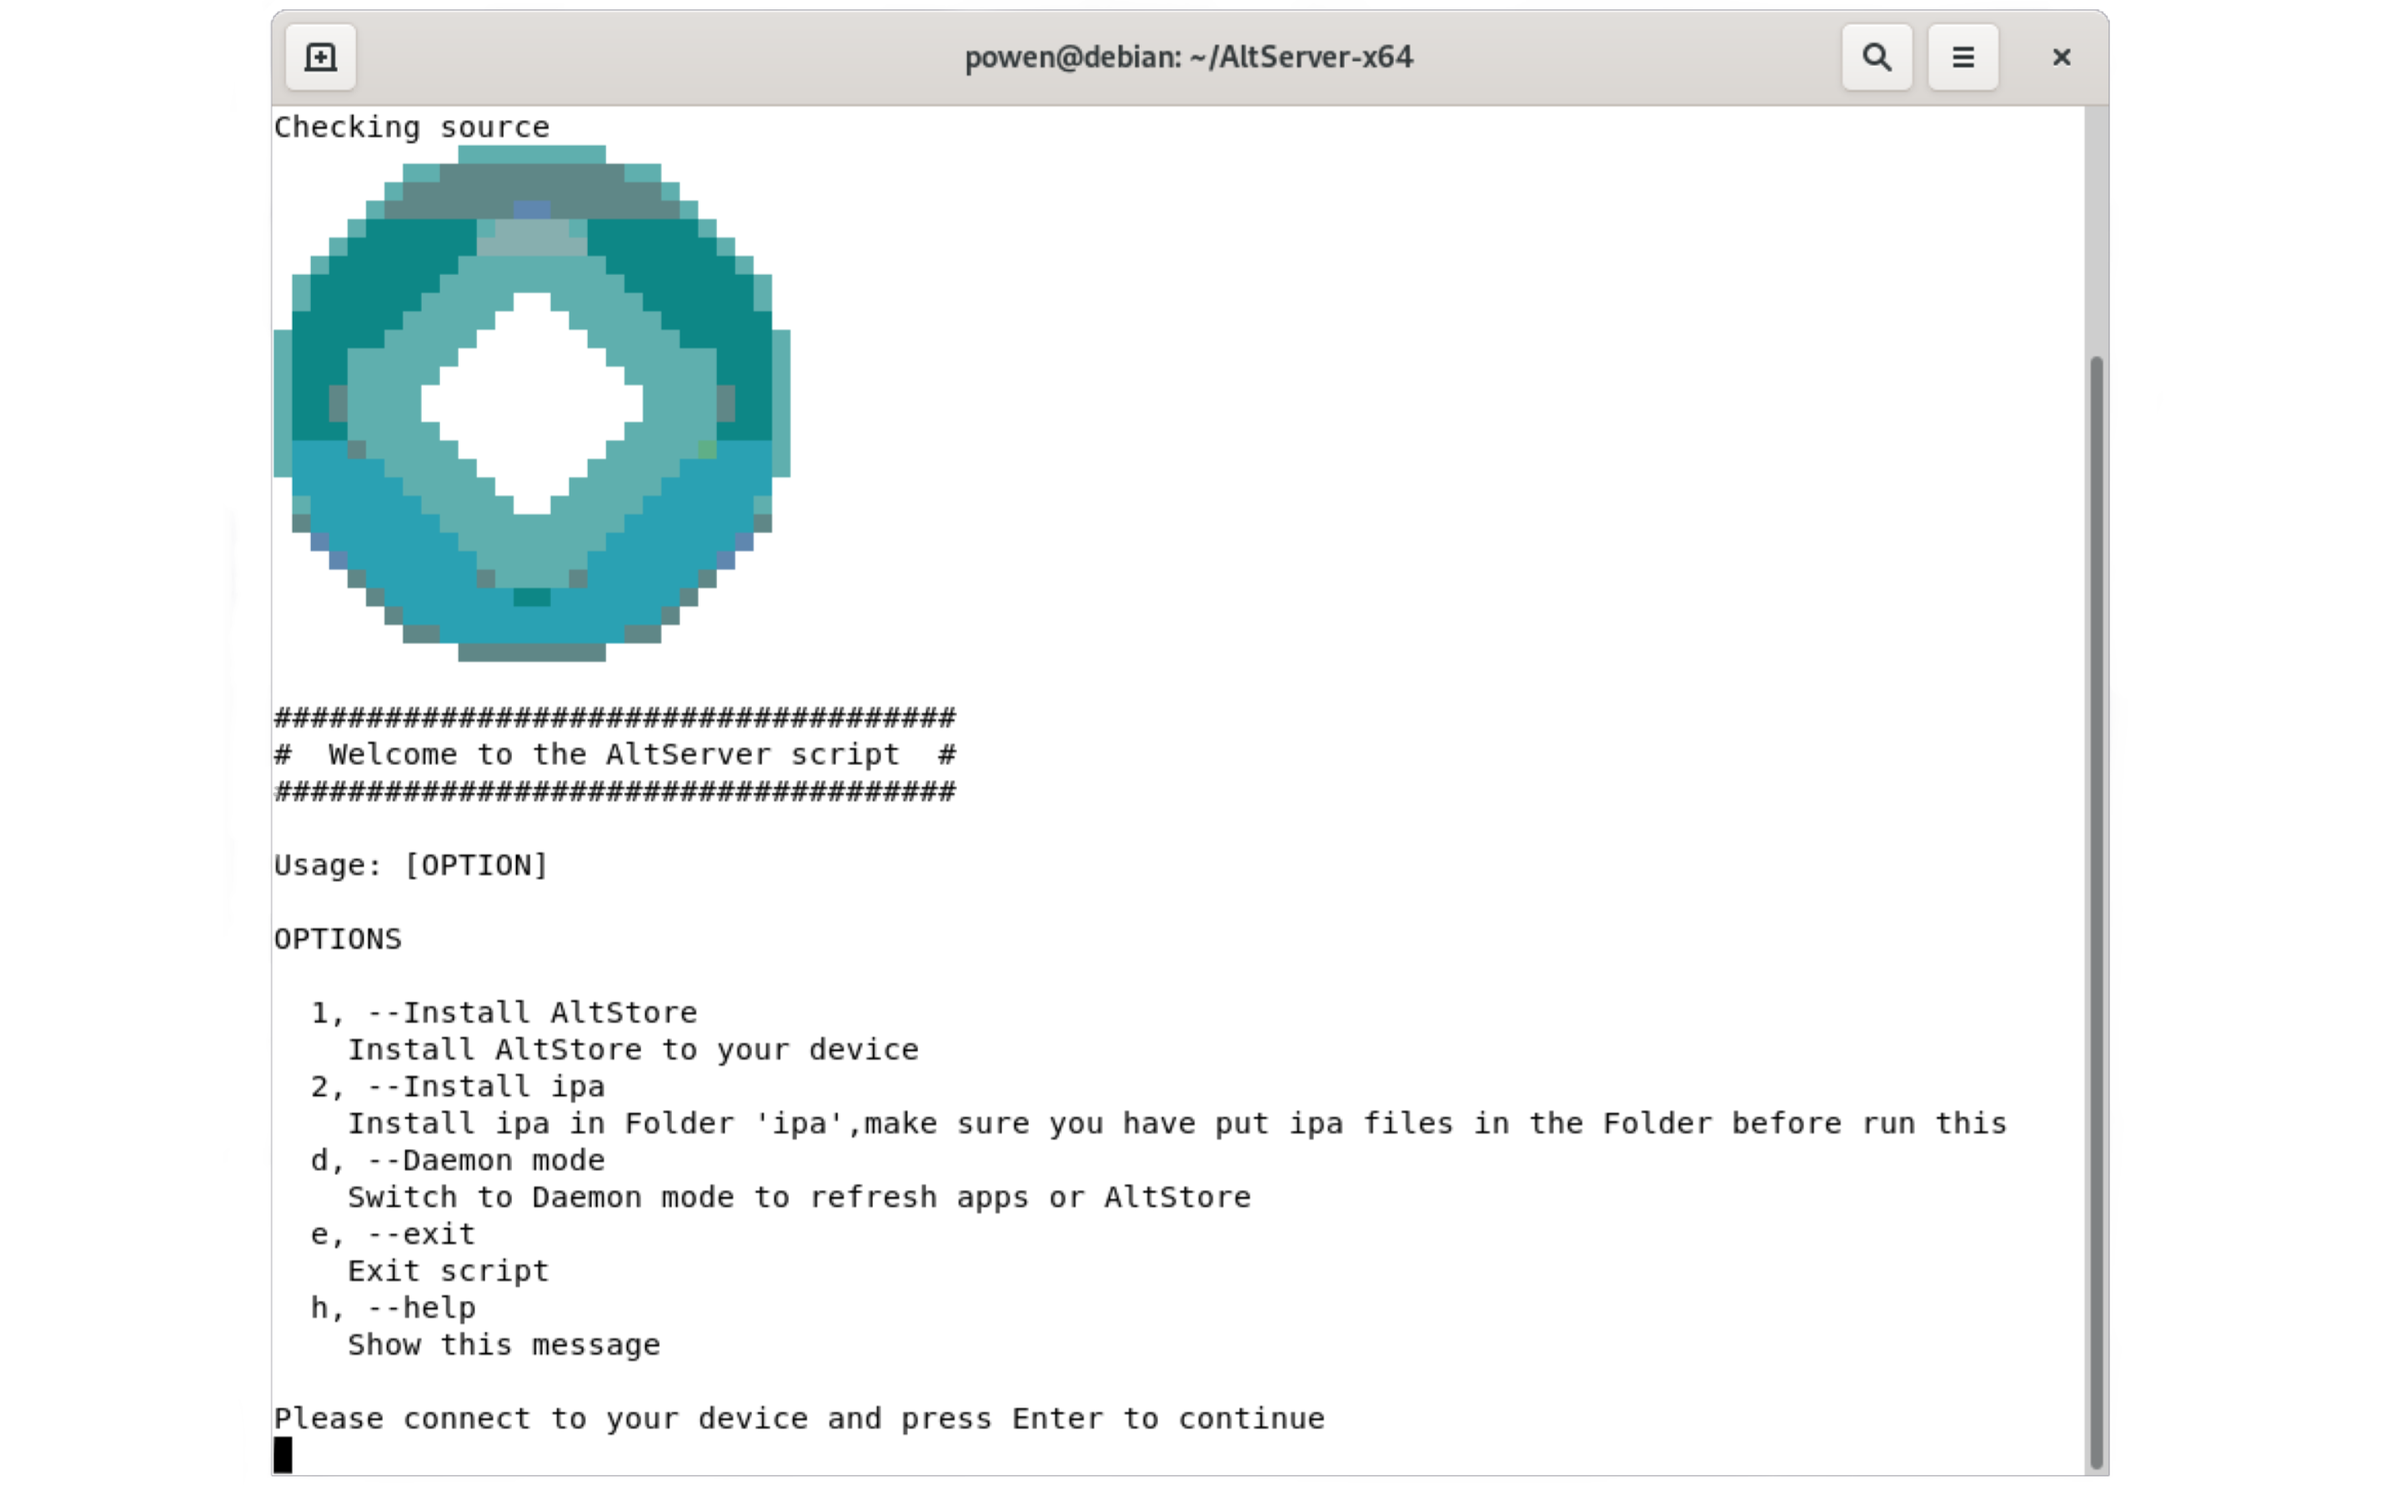
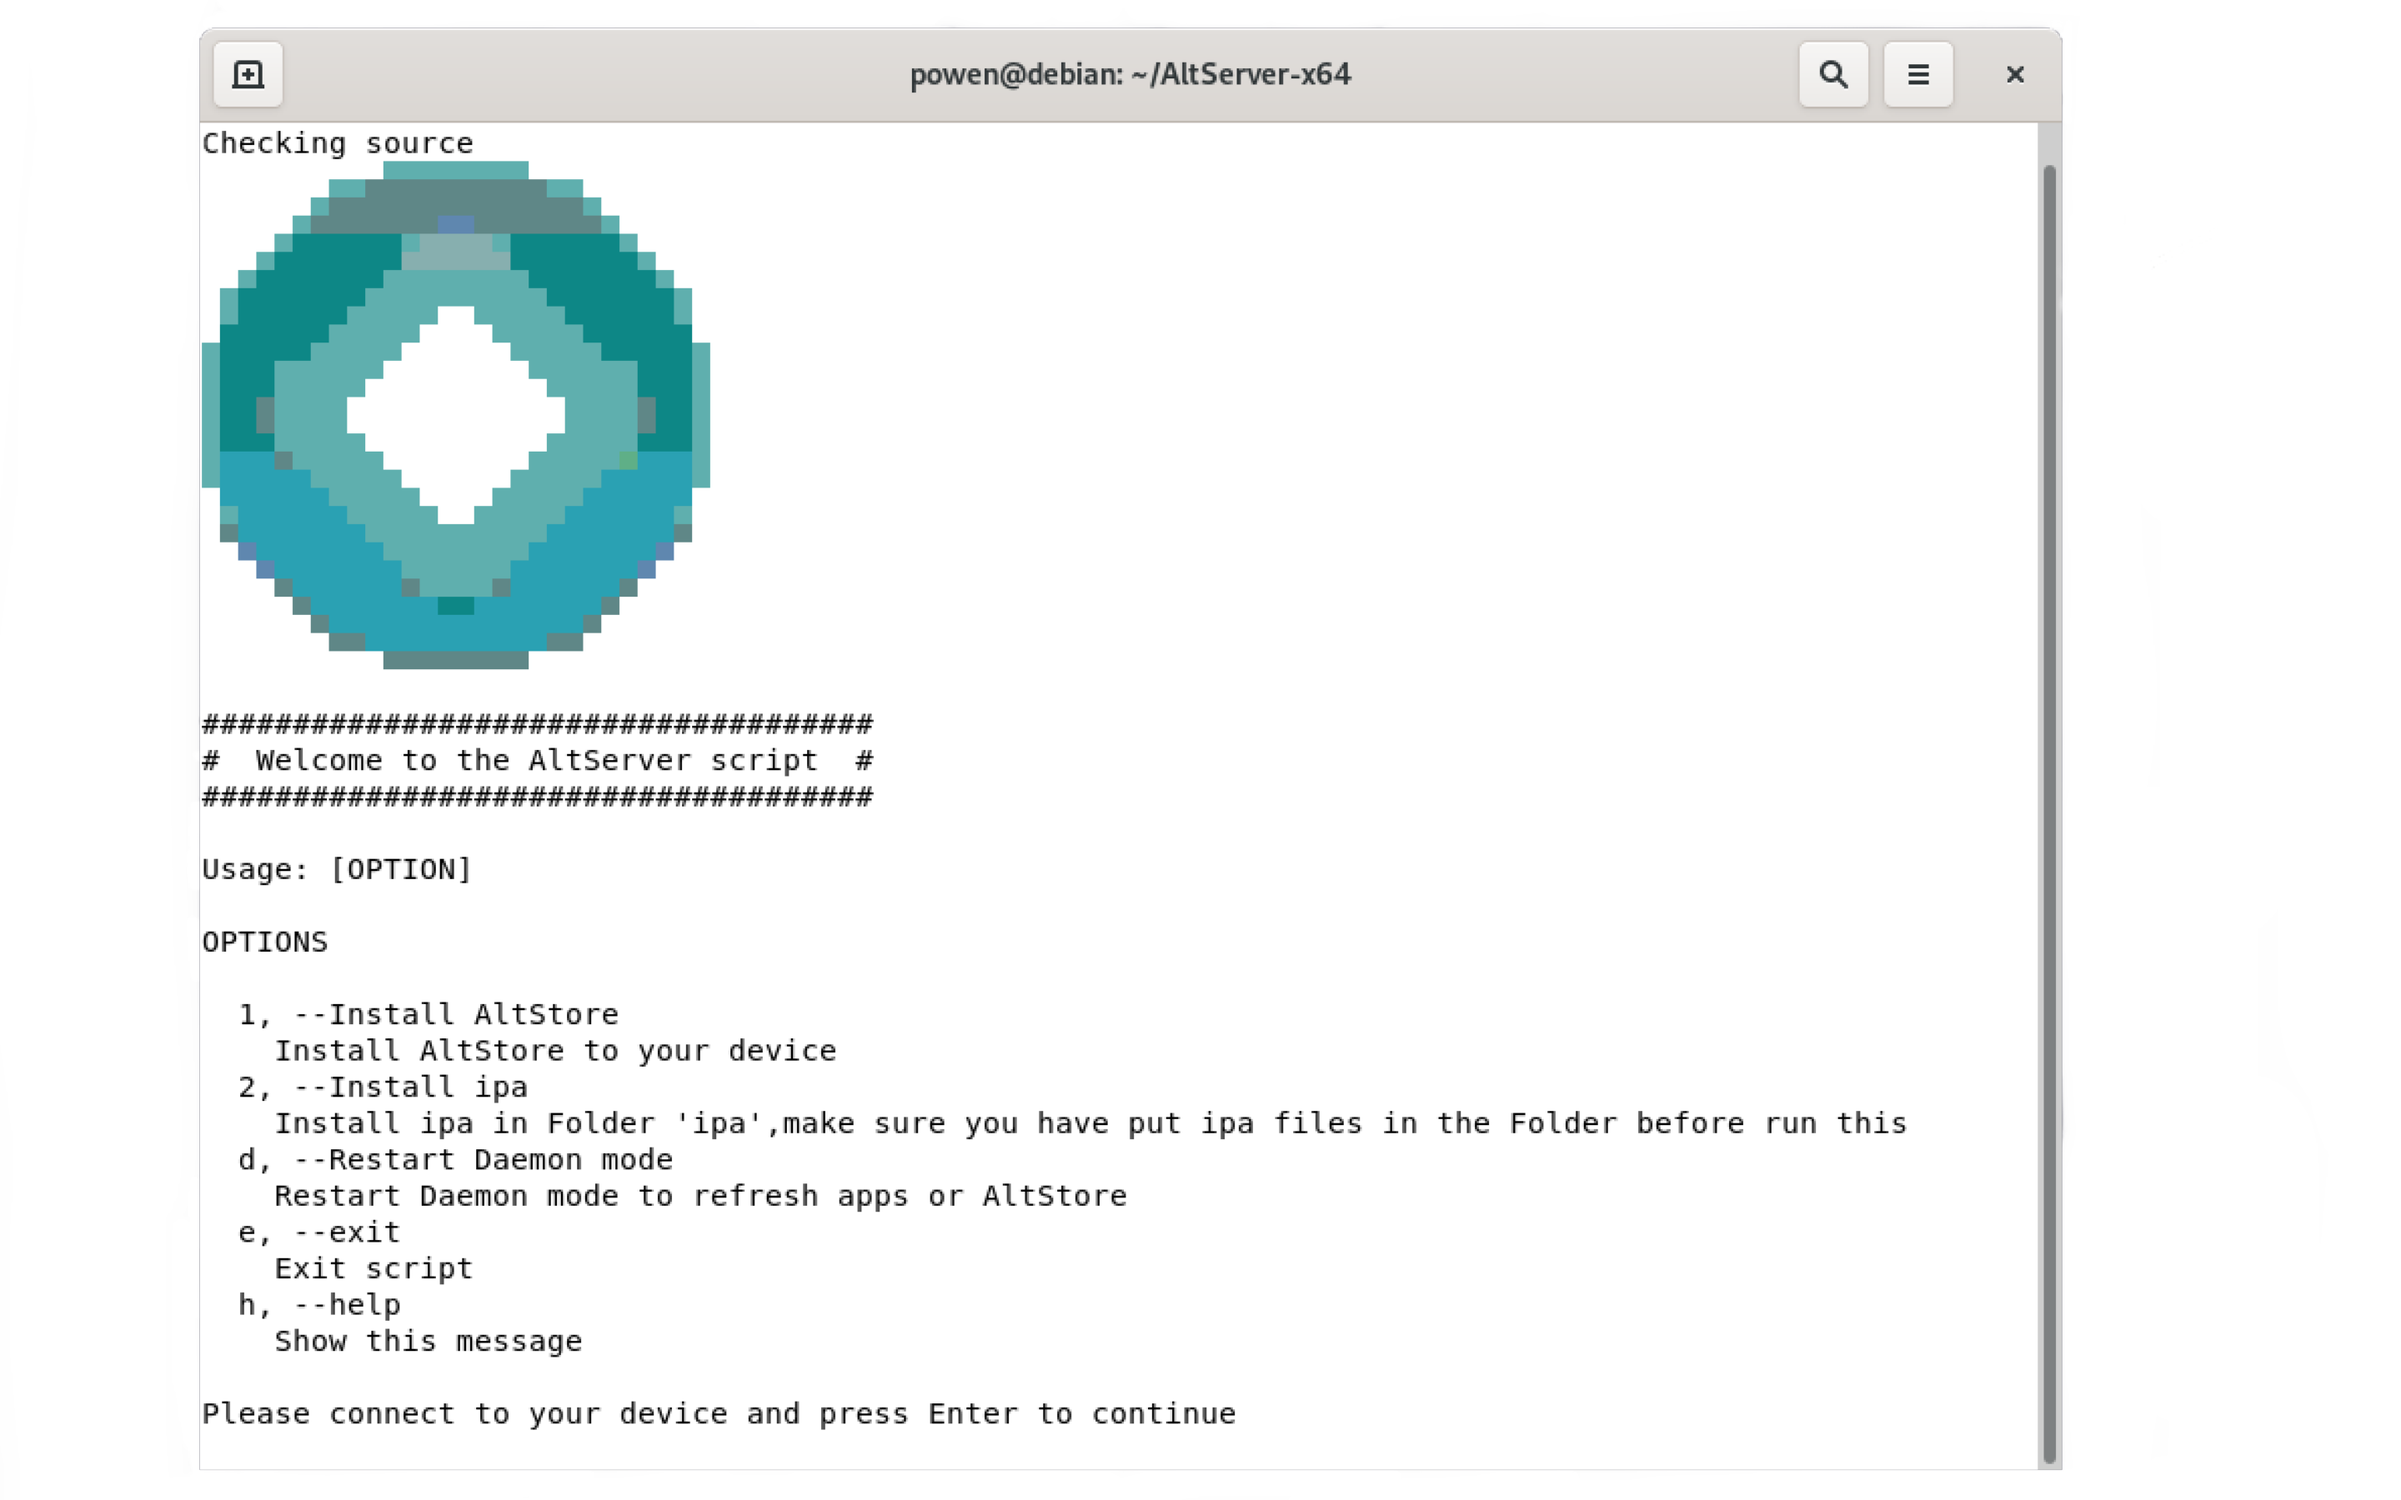
Update for new features

Changed region(s): [[0.0625, 0.0, 0.9062, 0.9956], [0.0938, 0.9333, 0.5625, 0.9956]]

diff --git a/README.md b/README.md
@@ -12,12 +12,12 @@ Special thanks to [NyaMisty](https://github.com/NyaMisty) for AltServer-Linux pr
 
 ![photo][4]
 
-## Features (now avaliable in pre-release)
+## Features
 - account saving
 - enter number to select and use saved account
 - enter number to select ipa
 - only need one command to use the script `./run.sh`
-
+- Daemon mode will start automatically after device connected and press Enter
 
 ## Note 
 
@@ -41,10 +41,8 @@ Please storage your ipa files into AltServer/ipa
 
 run `./run.sh` to start
 
+![photo][5]
 ![photo][0]
-![photo][1]
-![photo][2]
-![photo][3]
 
 ### Video(install AltStore)
 
@@ -69,3 +67,4 @@ run `./run.sh` to start
 [2]:https://github.com/powenn/AltServer-Linux-ShellScript/blob/main/photos/02.jpg
 [3]:https://github.com/powenn/AltServer-Linux-ShellScript/blob/main/photos/03.jpg
 [4]:https://github.com/powenn/AltServer-Linux-ShellScript/blob/main/photos/04.png
+[5]:https://github.com/powenn/AltServer-Linux-ShellScript/blob/main/photos/05.png
